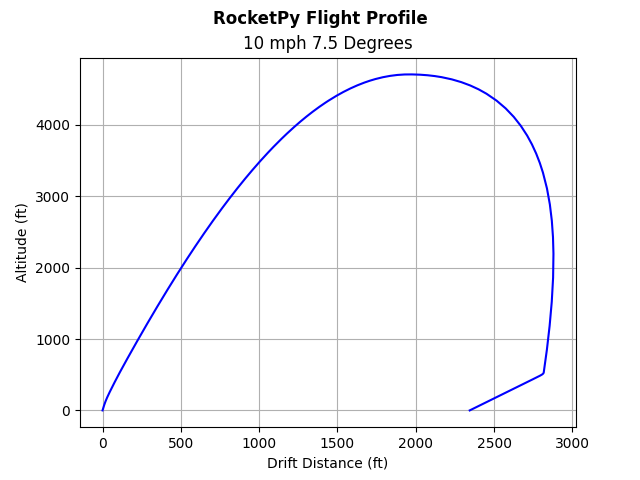
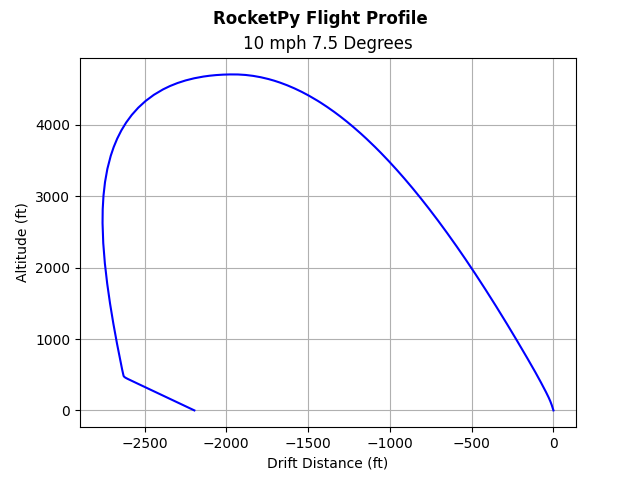
Added delay time support, updated feustel_pdr yaml file

diff --git a/SLUIRP/in_dev/airbrakes_system/midair_sims.py b/SLUIRP/in_dev/airbrakes_system/midair_sims.py
@@ -59,7 +59,58 @@ def midair_sim(vehicle_data, init_vel, init_alt, init_angle, drag_data = None):
     return(testFlight.apogee)
     
 
-
+def from_apogee_sim(vehicle_data,init_alt, wind_speed, drag_data = None):
+    ##################################################
+    # Simulates midair launch given velocity and altitude
+    # and returns apogee
+    # INPUTS:
+    # vehicle - name of csv file of vehicle being simulated
+    # init_vel - initial velocity of vehicle (m/s)
+    # init_alt - initial height of vehicle (m)
+    # init_angle - initial angle from vertical of vehicle (degrees)
+    # drag_data - (optional) 
+    # OUTPUTS:
+    # apogee - apogee in meters
+    ##################################################
+    #t1 = time.perf_counter()
+    vehicle = SLUIRP.data.OpenYAML.readYaml(vehicle_data)
+    #t2 = time.perf_counter() - t1
+    if drag_data is not None:
+        vehicle.power_off_drag = rp.Function(drag_data)
+        vehicle.power_on_drag = rp.Function(drag_data)
+    #t3 = time.perf_counter() - t1 - t2
+    #sets up environment
+    env = rp.Environment(latitude = 40.505404, longitude = -87.019832, elevation=187)
+    env.set_date((2026, 4, 13, 6))
+    #Creates environment using standard atmosphere and zero wind speed
+    env.set_atmospheric_model(
+        type="custom_atmosphere",
+        wind_u = [(0, wind_speed), (5000, wind_speed)], #wind in one direction (m/s)
+        wind_v = [(0, 0), (5000, 0)], #wind in perpendicular directon (m/s)
+        pressure=None, #no change from standard atmosphere in pressure
+        temperature=None) #no change from standard atmosphere in temperature
+    #t4 = time.perf_counter() - t1 - t3
+    init_angle = math.radians(0)
+    [q_0, q_1, q_2, q_3] = rp.tools.euler313_to_quaternions(init_angle, 0, 0) #converts pitch into quaternion
+    vehicle.motor.propellant_mass = 0
+    vehicle.motor.thrust_source = "CSV_files/zero.csv" #this is literally just a csv file with two zeros in it
+    testFlight   = rp.Flight(
+            rocket = vehicle,
+            environment = env, 
+            rail_length = 5, 
+            inclination = 90, 
+            heading = 270,
+            initial_solution=[0, 0, 0, init_alt / 3.28084 +env.elevation, 
+                1, 0 , 0,
+                q_0, q_1, q_2, q_3, 0, 0, 0],
+            terminate_on_apogee=0)
+    #t5 = time.perf_counter() - t1 - t4
+    #print("vehicle definition: ", t2)
+    #print("drag definition:", t3)
+    #print("enviornment definition", t4)
+    #print("flight simulation:", t5)
+    #testFlight.plots.trajectory_3d()
+    return(testFlight.time[-1] - testFlight.apogee_time)
 """midair_sim()
 Simulate midair launch with starting velocity and altitude
     -INPUTS: rp.rocket class (vehicle data)

diff --git a/SLUIRP/sims/RocketPySim.py b/SLUIRP/sims/RocketPySim.py
@@ -137,7 +137,7 @@ def single_sim(angle, speed, file_name, name = None, iteration = None):
     accel = testFlight.az(time) * FT_TO_M
     vel = testFlight.vz(time) * FT_TO_M
     mach_num = testFlight.mach_number(time)
-    drift = -1 * testFlight.x(time) * FT_TO_M
+    drift = -1 * testFlight.drift(time) * FT_TO_M
 
     for vIndex in range(0,len(vel)):
     #Determines velocity and time of main deployment
@@ -150,18 +150,18 @@ def single_sim(angle, speed, file_name, name = None, iteration = None):
     #Makes profile graphs for flight, altitude vs drift distance
     prof_graph(drift, alt, speed, angle, "RocketPy", name)
     final_vel= vel[-1]
-    stability= testFlight.stability_margin(testFlight.out_of_rail_time)
+    stability= testFlight.stability_margin(testFlight.out_of_rail_time + 5)
     descent_time= time[-1] - testFlight.apogee_time
     ascent_time= testFlight.apogee_time
     apogee= (testFlight.apogee - env.elevation) * FT_TO_M
-    distance= abs(drift[-1] + (FT_TO_M * testFlight.x(testFlight.apogee_time)))
+    distance= abs(drift[-1])
     run_params= plot_name
     max_mach= max(mach_num)
     max_vel= max(vel)
     max_accel= max(accel)
     max_ke= 0.5 * vel[-1] ** 2 * vehicle.m_heav / 32.17
     vel_at_main= vel_main_deploy
-    under_drogue= time_main_deploy + testFlight.apogee_time
+    under_drogue= time_main_deploy - testFlight.apogee_time
     #print("after" + str(time_main_deploy))
     under_main=(time[-1] - time_main_deploy)
     #print("Velocity at Main Deployment:" + str(vel_main_deploy))

diff --git a/main.py b/main.py
@@ -17,7 +17,7 @@ import SLUIRP.data.OpenYAML
 #import SLUIRP.sims
 import SLUIRP.sims.RocketPySim
 import SLUIRP.plotting.external_plots
-#import SLUIRP.in_dev.airbrakes_system.midair_sims
+import SLUIRP.in_dev.airbrakes_system.midair_sims
 #import dill
 #import time
 
@@ -25,12 +25,13 @@ def main():
     angles = [5, 5, 7.5, 7.5, 10]
     speeds = [0, 5, 10, 15, 20]
 
-    vehicle = SLUIRP.data.OpenYAML.readYaml("ConfigFiles/feustel_pdr.yaml")
+    #vehicle = SLUIRP.data.OpenYAML.readYaml("ConfigFiles/feustel_pdr.yaml")
     #compare_sim_real(vdf_data, env, 3, "VDF Flight")
     #graph_thrust()
     #drag = np.array([[0, 0.8],[0.3, 0.9],[0.5,1]])
     #print(SLUIRP.in_dev.airbrakes_system.midair_sims.midair_sim("ConfigFiles/2026_Proposal_12lb.yaml", 50, 300, 50 , drag))
     #SLUIRP.sims.RocketPySim.multi_sim(angles, speeds, "ConfigFiles/feustel_pdr.yaml")
+    print(SLUIRP.in_dev.airbrakes_system.midair_sims.from_apogee_sim("ConfigFiles/feustel_pdr.yaml", 6000, 10))
     #SLUIRP.sims.RocketPySim.single_sim(5, 0, "ConfigFiles/2026_Proposal_12lb.yaml", "for 12 lb Design")
     #print(SLUIRP.in_dev.airbrakes_system.midair_sims.midair_sim("ConfigFiles/2026_Proposal_12lb.yaml",
     #                                                      50, 1000, 20, [[0, 0.6],[0.25,0.5],[0.5,0.6]]))

diff --git a/SLUIRP/data/OpenYAML.py b/SLUIRP/data/OpenYAML.py
@@ -92,7 +92,7 @@ def readYaml (filename):
             cd_s = parachutes_data["main_cd"] * (parachutes_data["main_diameter"] / 2 * IN_TO_M) ** 2 * math.pi, 
             #Defined as area (m^2) * coefficient of drag 
             trigger = parachutes_data["main_trigger"] / FT_TO_M, #altitude of main deployment ft -> meters
-            lag = 0 #lag between deployment signal and deployment
+            lag = parachutes_data["delay"] #lag between deployment signal and deployment
         )
 
     #Adds drogue if present
